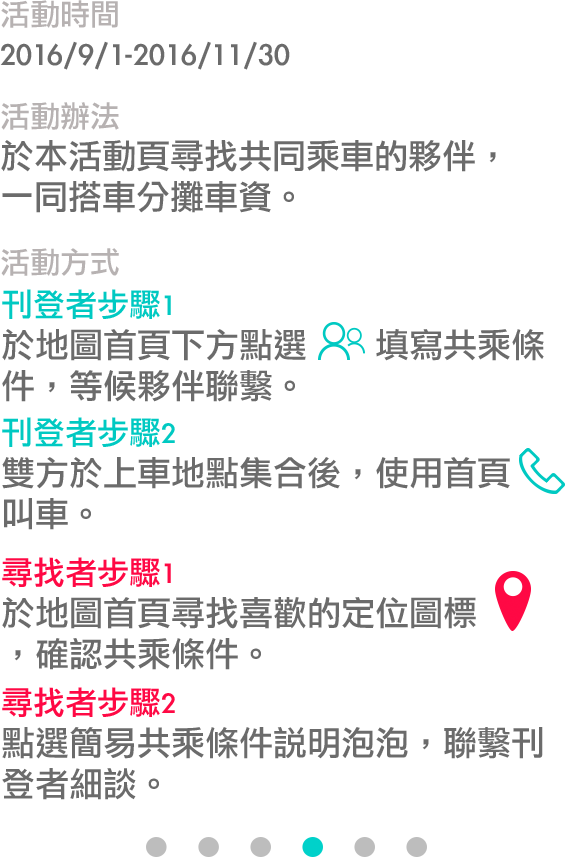
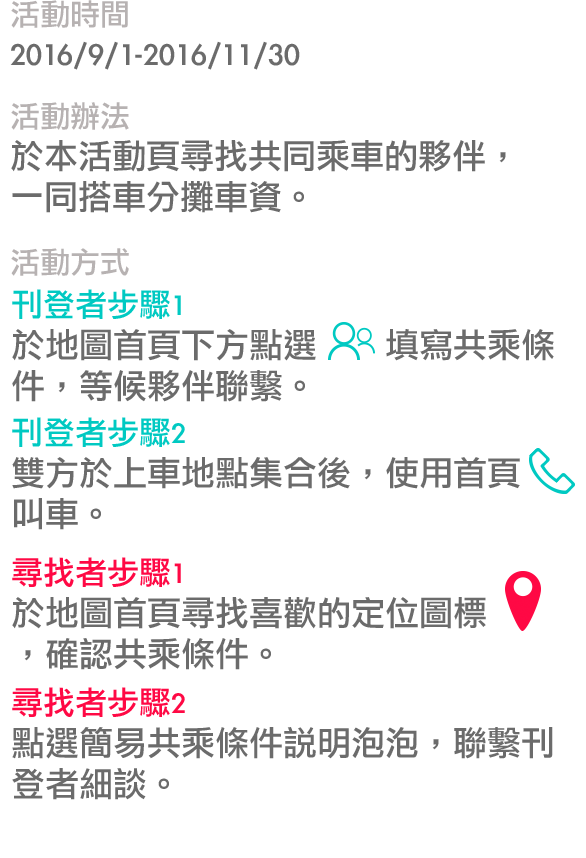
test

diff --git a/www/page4.html b/www/page4.html
@@ -1,7 +1,7 @@
 <style>
 .slider_img {
-    width: 90%;
-    margin: 0 auto;
+    /*width: 90%;
+    margin: 0 auto;*/
 }
 </style>
 <script src="js/jquery.bxslider.min.js"></script>
@@ -43,7 +43,10 @@
         setTimeout(function() {
             
             menu.setSwipeable(false);
-            $('.bxslider').bxSlider();
+            $('.bxslider').bxSlider({
+                responsive: false
+                
+            });
     
         }, 10);
     });
